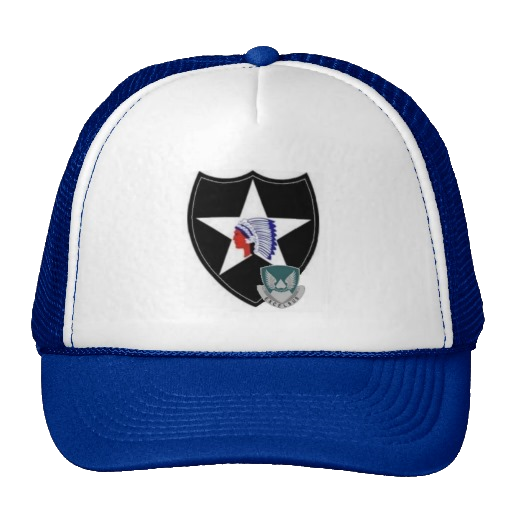
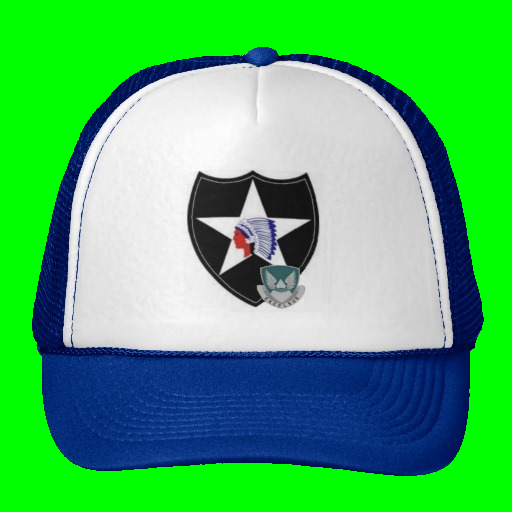
Add image overlay handler system and add hat overlay

diff --git a/FinalProject/ImageOverlayFrameHandler.cpp b/FinalProject/ImageOverlayFrameHandler.cpp
@@ -1,0 +1,58 @@
+#include "ImageOverlayFrameHandler.h"
+#include <iostream>
+
+using namespace std;
+using namespace cv;
+
+ImageOverlayFrameHandler::ImageOverlayFrameHandler(const string &imageFilePath) {
+	this->image = imread(imageFilePath, CV_LOAD_IMAGE_COLOR);
+
+	if (!this->image.data) {
+		this->loaded = false;
+		cerr << "[ERROR] Can not load image: " << imageFilePath << endl;
+		return;
+	}
+
+	this->loaded = true;
+}
+
+ImageOverlayFrameHandler::~ImageOverlayFrameHandler() {
+	this->image.release();
+}
+
+void ImageOverlayFrameHandler::overlayImage(cv::Mat &frame, const cv::Mat &hat, int startX, int startY) const {
+	int width = hat.size().width;
+	int height = hat.size().height;
+
+	for (int x = startX; x < startX + width; x++) {
+		if (x < 0) {
+			continue;
+		}
+
+		if (x >= frame.size().width - 1) {
+			break;
+		}
+
+		for (int y = startY; y < startY + height; y++) {
+			if (y < 0) {
+				continue;
+			}
+
+			if (y >= frame.size().height - 1) {
+				break;
+			}
+
+			Vec3b hatVal = hat.at<Vec3b>(y - startY, x - startX);
+			// skip if green screen
+			if (!isGreenScreenPixel(hatVal)) {
+				frame.at<Vec3b>(y, x) = hatVal;
+			}
+		}
+	}
+}
+
+bool ImageOverlayFrameHandler::isGreenScreenPixel(const Vec3b &pixel) const {
+	return pixel[0] <= GREEN_SCREEN_PIXEL_TOLERANCE &&
+		std::abs(pixel[1] - 255) <= GREEN_SCREEN_PIXEL_TOLERANCE &&
+		pixel[2] <= GREEN_SCREEN_PIXEL_TOLERANCE;
+}

diff --git a/FinalProject/HatOverlayFrameHandler.cpp b/FinalProject/HatOverlayFrameHandler.cpp
@@ -1,0 +1,32 @@
+#include "HatOverlayFrameHandler.h"
+#include <iostream>
+
+using namespace cv;
+using namespace std;
+
+void HatOverlayFrameHandler::handleFaceDetectionFrame(cv::Mat &frame, const int &keyPressed, std::vector<Face> faces, const char *windowName) {
+	if (!this->loaded) {
+		return;
+	}
+
+	for (size_t i = 0; i < faces.size(); i++) {
+		Rect faceRect = faces[i].getFace();
+
+		double destWidth = faceRect.width;
+		double origWidth = this->image.size().width;
+
+		double ratio = destWidth / origWidth;
+
+		Size newSize((int)(origWidth * ratio), (int)(this->image.size().height * ratio));
+
+		Mat hat(newSize, true);
+		resize(this->image, hat, newSize);
+
+		int newY = (faceRect.y - newSize.height) + (newSize.height * .3);
+		overlayImage(frame, hat, faceRect.x, newY);
+	}
+}
+
+string HatOverlayFrameHandler::getName() const {
+	return "Hat";
+}

diff --git a/FinalProject/PhotoBooth487.cpp b/FinalProject/PhotoBooth487.cpp
@@ -2,6 +2,7 @@
 #include "DummyFrameHandler.h"
 #include "FaceBoxFrameHandler.h"
 #include "FaceTextFrameHandler.h"
+#include "HatOverlayFrameHandler.h"
 #include "FPS.h"
 
 #include <iostream>
@@ -48,7 +49,7 @@ void PhotoBooth487::initHandlers() {
 	this->frameHandlers[Keys::KEY_NUM_0] = currentFrameHandler;
 	this->frameHandlers[Keys::KEY_NUM_1] = new FaceBoxFrameHandler;
 	this->frameHandlers[Keys::KEY_NUM_2] = new FaceTextFrameHandler;
-	this->frameHandlers[Keys::KEY_NUM_3] = currentFrameHandler;
+	this->frameHandlers[Keys::KEY_NUM_3] = new HatOverlayFrameHandler("cap.png");
 	this->frameHandlers[Keys::KEY_NUM_4] = currentFrameHandler;
 	this->frameHandlers[Keys::KEY_NUM_5] = currentFrameHandler;
 	this->frameHandlers[Keys::KEY_NUM_6] = currentFrameHandler;

diff --git a/FinalProject/ImageOverlayFrameHandler.h b/FinalProject/ImageOverlayFrameHandler.h
@@ -1,0 +1,19 @@
+#pragma once
+
+#include "FaceDetectionFrameHandler.h"
+
+class ImageOverlayFrameHandler : public FaceDetectionFrameHandler {
+public:
+	static const int GREEN_SCREEN_PIXEL_TOLERANCE = 80;
+
+	ImageOverlayFrameHandler(const std::string &imageFilePath);
+	~ImageOverlayFrameHandler();
+
+	void overlayImage(cv::Mat &frame, const cv::Mat &overlay, int startX, int startY) const;
+	bool isGreenScreenPixel(const cv::Vec3b &pixel) const;
+
+protected:
+	cv::Mat image;
+	bool loaded;
+};
+

diff --git a/FinalProject/HatOverlayFrameHandler.h b/FinalProject/HatOverlayFrameHandler.h
@@ -1,0 +1,16 @@
+#pragma once
+
+#include "ImageOverlayFrameHandler.h"
+
+class HatOverlayFrameHandler : public ImageOverlayFrameHandler {
+public:
+	static const int GREEN_SCREEN_PIXEL_TOLERANCE = 80;
+
+	HatOverlayFrameHandler(const std::string &hatFilePath) : ImageOverlayFrameHandler(hatFilePath) {}
+	~HatOverlayFrameHandler() {}
+
+	void handleFaceDetectionFrame(cv::Mat &frame, const int &keyPressed, std::vector<Face> faces, const char *windowName);
+	
+	std::string getName() const;
+};
+

diff --git a/FinalProject/FrameHandler.h b/FinalProject/FrameHandler.h
@@ -15,9 +15,6 @@ public:
 	virtual void handleFrame(cv::Mat &frame, const int &keyPressed, const char *windowName) = 0;
 	virtual void onMouseEvent(int eventCode, int x, int y, int flags) {}
 
-	void onEnable();
-	void onDisable();
-
 	virtual std::string getName() const = 0;
 };
 
